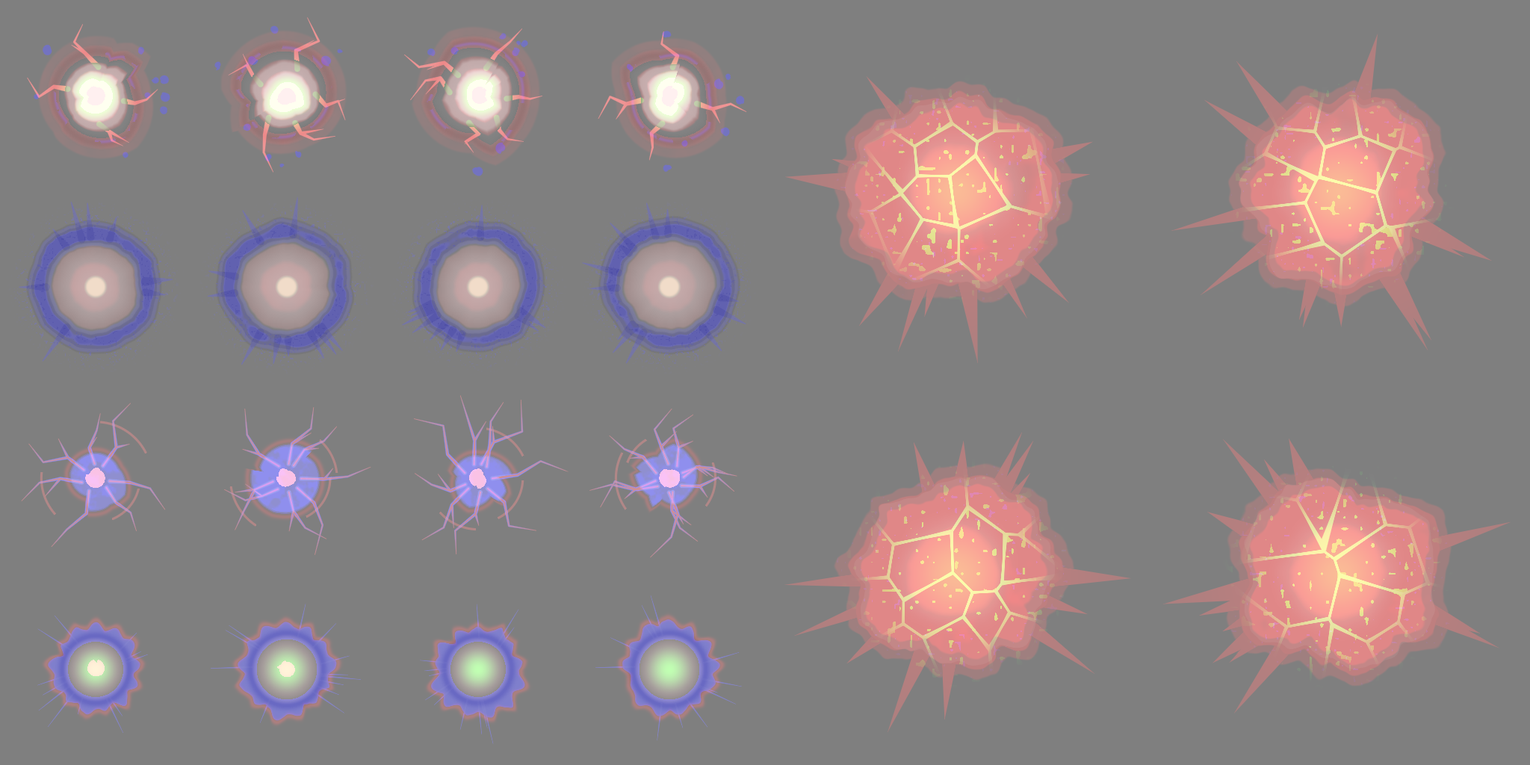
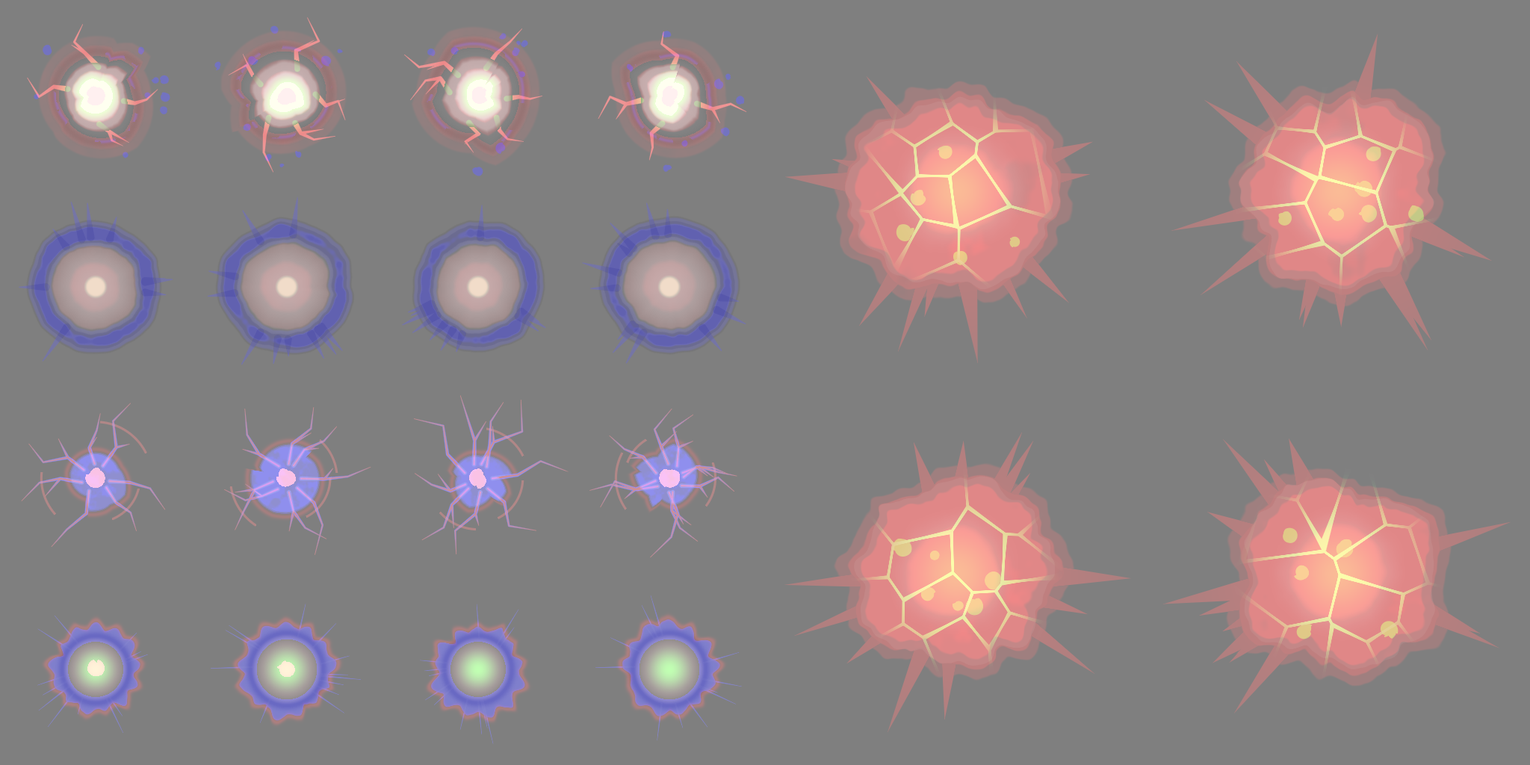
fix(unity): 射击核心特效风格审查 —— 枪口火焰改预乘 + 三段色阶（亮沙 / 雪上不再一团白）、白热芯硬边；焦痕 / 沙坑去噪点颗粒；命中闪光收小、弹着尘按章节暖色；碎刃刀光墨笔起收锋 + 月牙带

diff --git a/unity/Assets/Game/Scripts/Weapons/DemonBlade/BladeTrail.cs b/unity/Assets/Game/Scripts/Weapons/DemonBlade/BladeTrail.cs
@@ -7,7 +7,8 @@ namespace Spiritfire.Game
     /// 碎刃第一人称刀光（WC7；Three.js BladeView.ts 的 SwingTrail，外观参数走 FX1 预设 <see cref="BladeTrailPreset"/>）：
     /// 挂在第一人称视图里（相机空间、FirstPerson 层，由枪模相机画），视图每帧把这一帧走过的挥砍进度细分采样，
     /// 每个采样点记下刀身 35% 处（内沿）与伸长后的刀尖（外沿）的位置和外沿速度——刀光就是刀身扫过的那块面，和刀身严格同步。
-    ///   · 横截面：内沿透明 → 七成处淡淡一层 → 外沿最亮（带身，普通混合：亮背景上也看得见；亮度集中在刃口一侧，像一弯月牙）→ 外缘一道加色光边；
+    ///   · 横截面：刀身扫过的面只画靠刃口的四成——短短一段过渡到带身色（墨笔的边）→ 外沿刃口暖白（两段色阶，普通混合：亮背景上也看得见）→ 外缘一道加色光边；
+    ///   · 墨笔起收锋（风格审查）：一条刀光沿长度方向两头收尖（最老的起笔端收成尖、贴刀的一端略收），读作一弯月牙，不再是四四方方的一片；
     ///   · 亮度跟速度走（<see cref="FxTrailSpec.Brightness"/>）：出刀那两三帧满亮、收势越来越暗；最新的 0.04 s 再白热一点；
     ///   · 采样点活 0.16 s（游戏时间：顿帧时刀光跟着停住），新一段斩击另起一条（<see cref="Break"/>），旧的自然淡掉，不会被拉成一根线连过去。
     /// 网格顶点数固定（<see cref="FxTrailSpec.maxSamples"/> × 5：内沿、七成处、外沿、光边内侧、光边外侧），每帧只重写位置 / 颜色 / 索引。
@@ -26,9 +27,16 @@ namespace Spiritfire.Game
             public bool start;
         }
 
-        const int Stride = 5;
-        /// <summary>带身中间那一圈的位置（内沿 → 外沿的比例）与不透明度（占外沿的比例）</summary>
-        const float MidAt = 0.7f, MidAlpha = 0.42f;
+        const int Stride = 6;
+        /// <summary>
+        /// 带身横截面（风格审查：刀身扫过的那块面只留靠刃口的四成，读作一弯月牙，不是一整张半透明面）：
+        /// 内沿 → InnerAt 处还是透明（这一段不画）→ MidAt 处到带身色（短短一段过渡 = 墨笔的边）→ 外沿刃口（暖白）→ 外缘光边。两段色阶：带身色 / 刃口
+        /// </summary>
+        const float InnerAt = 0.5f, MidAt = 0.64f, MidAlpha = 0.6f;
+        /// <summary>墨笔起收锋：一条刀光最老的那一段（起笔）收成尖（占全长的比例），最新的那一小段（贴着刀）略收一点</summary>
+        const float TailTaper = 0.42f, HeadTaper = 0.12f;
+        /// <summary>刃口混向的暖白（玩家刀光偏金、偏灵火）</summary>
+        static readonly Color WarmWhite = new(1f, 0.9f, 0.66f);
 
         FxTrailSpec spec;
         Sample[] samples;
@@ -77,7 +85,7 @@ namespace Spiritfire.Game
             samples = new Sample[n];
             verts = new Vector3[n * Stride];
             colors = new Color[n * Stride];
-            body = new int[(n - 1) * 12];
+            body = new int[(n - 1) * 18];
             fringe = new int[(n - 1) * 6];
             mesh = new Mesh { name = "Blade Trail", hideFlags = HideFlags.DontSave };
             mesh.MarkDynamic();
@@ -184,36 +192,57 @@ namespace Spiritfire.Game
             return Vector3.Lerp(s.inner, pushed, need);
         }
 
+        /// <summary>墨笔起收锋的宽度系数：u = 这一点在这条刀光里的位置（0 = 最老的起笔端，1 = 贴着刀的最新端）</summary>
+        static float BrushWidth(float u)
+        {
+            float tail = Mathf.Clamp01(u / TailTaper);
+            tail = tail * tail * (3 - 2 * tail);
+            float head = 1 - 0.3f * Mathf.Clamp01((u - (1 - HeadTaper)) / HeadTaper);
+            return Mathf.Sqrt(tail) * head;
+        }
+
         /// <summary>重写网格；没有相连的两点（画不出带子）返回 false</summary>
         bool Rebuild(Color color)
         {
-            var white = Color.white;
             float widenMax = 0, sideSign = 0;
+            int stripStart = 0, stripEnd = 0;
             for (int i = 0; i < count; i++)
             {
                 var s = samples[i];
-                if (s.start) sideSign = 0;
+                if (s.start || i == 0)
+                {
+                    sideSign = 0;
+                    stripStart = i;
+                    stripEnd = i;
+                    while (stripEnd + 1 < count && !samples[stripEnd + 1].start) stripEnd++;
+                }
                 s.inner = WidenedInner(i, ref sideSign, ref widenMax);
+                // 起收锋：内沿往刃口收（刃口不动），两头尖、中间饱满的一弯月牙
+                float u = stripEnd > stripStart ? (i - stripStart) / (float)(stripEnd - stripStart) : 1f;
+                float bw = BrushWidth(u);
+                s.inner = Vector3.LerpUnclamped(s.outer, s.inner, bw);
                 float life = Mathf.Clamp01(1 - s.age / Mathf.Max(0.01f, spec.life));
                 float head = Mathf.Clamp01(1 - s.age / Mathf.Max(0.005f, spec.headTime));
                 float fade = life * life;
-                var hot = Color.Lerp(color, white, Mathf.Clamp01(spec.hotMix + spec.headHotMix * head));
+                var hot = Color.Lerp(color, WarmWhite, Mathf.Clamp01(spec.hotMix + spec.headHotMix * head));
                 float k = spec.bodyIntensity * (0.55f + 0.45f * s.bright);
                 int v = i * Stride;
-                float a = fade * spec.bodyAlpha * s.bright;
-                var mid = Color.Lerp(color, hot, 0.35f);
+                float a = fade * spec.bodyAlpha * s.bright * Mathf.Lerp(0.55f, 1f, bw);
+                var mid = Color.Lerp(color, hot, 0.2f);
                 verts[v] = s.inner;
-                verts[v + 1] = Vector3.LerpUnclamped(s.inner, s.outer, MidAt);
-                verts[v + 2] = s.outer;
+                verts[v + 1] = Vector3.LerpUnclamped(s.inner, s.outer, InnerAt);
+                verts[v + 2] = Vector3.LerpUnclamped(s.inner, s.outer, MidAt);
                 verts[v + 3] = s.outer;
-                verts[v + 4] = s.outer + (s.outer - s.inner) * spec.fringe;
-                colors[v] = new Color(color.r * k, color.g * k, color.b * k, 0);
-                colors[v + 1] = new Color(mid.r * k, mid.g * k, mid.b * k, a * MidAlpha);
-                colors[v + 2] = new Color(hot.r * k, hot.g * k, hot.b * k, a);
+                verts[v + 4] = s.outer;
+                verts[v + 5] = s.outer + (s.outer - s.inner) * spec.fringe;
+                colors[v] = new Color(mid.r * k, mid.g * k, mid.b * k, 0);
+                colors[v + 1] = new Color(mid.r * k, mid.g * k, mid.b * k, 0);
+                colors[v + 2] = new Color(mid.r * k, mid.g * k, mid.b * k, a * MidAlpha);
+                colors[v + 3] = new Color(hot.r * k, hot.g * k, hot.b * k, a);
                 // 外缘光边：加色，刃口那一侧亮（alpha = 强度）、向外收掉
                 float f = spec.fringeIntensity;
-                colors[v + 3] = new Color(hot.r * f, hot.g * f, hot.b * f, fade * s.bright);
-                colors[v + 4] = new Color(hot.r * f, hot.g * f, hot.b * f, 0);
+                colors[v + 4] = new Color(hot.r * f, hot.g * f, hot.b * f, fade * s.bright * bw);
+                colors[v + 5] = new Color(hot.r * f, hot.g * f, hot.b * f, 0);
             }
             LastWiden = widenMax;
             // 没用到的顶点叠到第一个点上：包围盒只算现存的采样
@@ -223,8 +252,8 @@ namespace Spiritfire.Game
             {
                 if (samples[i].start) continue;
                 int a = (i - 1) * Stride, b = i * Stride;
-                // 带身：内沿 → 七成处 → 外沿
-                for (int r = 0; r < 2; r++)
+                // 带身：月牙的内边（InnerAt → MidAt 的过渡）→ 外沿；内沿到 InnerAt 那一段全透明，不画
+                for (int r = 1; r < 3; r++)
                 {
                     body[nb++] = a + r;
                     body[nb++] = a + r + 1;
@@ -234,12 +263,12 @@ namespace Spiritfire.Game
                     body[nb++] = b + r;
                 }
                 // 外缘光边：光边内侧 → 外侧
-                fringe[nf++] = a + 3;
                 fringe[nf++] = a + 4;
-                fringe[nf++] = b + 3;
-                fringe[nf++] = a + 4;
+                fringe[nf++] = a + 5;
                 fringe[nf++] = b + 4;
-                fringe[nf++] = b + 3;
+                fringe[nf++] = a + 5;
+                fringe[nf++] = b + 5;
+                fringe[nf++] = b + 4;
             }
             if (nb == 0) return false;
             mesh.vertices = verts;

diff --git a/scripts/unity/fx_shot_textures.py b/scripts/unity/fx_shot_textures.py
@@ -6,7 +6,7 @@
 全部确定性（固定种子），重跑逐字节相同。按线性空间导入（数据，不是颜色）。
 
 T_Fx_MuzzleSet.png  1024 × 1024，4 × 4 格（每格 256 px，第 0 格在左上角，按行往右数）：
-    RGB = 亮度（白热芯 1 → 边缘 0.55，乘调用方颜色），A = 形状（硬边 + 1–2 px 抗锯齿：卡通、干脆）
+    RGB = 亮度 × 覆盖（预乘；火焰类格的亮度硬化成三段：亮芯 1 / 主色 0.76 / 暗边 0.52，乘调用方颜色），A = 形状（硬边 + 1–2 px 抗锯齿：卡通、干脆）
     正面（格心 = 枪口，朝枪管方向看）：
         0 十字星芒（步枪：四道长芒 + 四道短芒）      1 霰弹喷口（一圈火舌簇 + 弹丸火星点）
         2 粗火团（左轮 / 榴弹：鼓起的火云团）          3 冲击环（狙击 / 灵炮：带缺口的细环）
@@ -209,9 +209,9 @@ def muzzle_cell(i):
             a = np.maximum(a, ring * (1.1 - R * 0.5))
         a = np.maximum(a, np.exp(-(r / 0.22) ** 2) * 0.8)
         lum = np.clip(a, 0, 1) * 0.85 + 0.15 * core
-    elif i == 5:  # 白热芯
-        a = np.clip(aa(0.3 - r, px) * 0.85 + np.exp(-(r / 0.45) ** 2) * 0.6, 0, 1) * aa(0.98 - r, px)
-        lum = np.clip(0.6 + 0.4 * (1 - r / 0.5), 0.6, 1)
+    elif i == 5:  # 白热芯：硬边扇贝圆（风格审查：高光要小、要硬，不要一团柔光）
+        a = aa(0.42 + 0.035 * np.sin(th * 7) - r, px)
+        lum = np.where(r < 0.27, 1.0, 0.8)
     elif i == 6:  # 六角星芒（冲锋枪）
         c1, l1 = spikes(x, y, 6, 0.78, 0.16, rot=np.pi / 2)
         disc = aa(0.22 - r, px)
@@ -236,13 +236,12 @@ def muzzle_cell(i):
             w = w * (1 + 0.32 * np.exp(-((t - 0.36) / 0.06) ** 2) + 0.25 * np.exp(-((t - 0.64) / 0.06) ** 2))
             w = w - 0.1 * np.exp(-((t - 0.5) / 0.05) ** 2) * (1 - t)
             a = aa(w - ay, px) * (t < 0.99)
-            inner = aa(w * 0.45 - ay, px)
-            lum = a * (0.62 + 0.38 * inner) * (1 - 0.3 * t)
+            # 三段色阶跟着火舌的形状走（芯 / 主色 / 暗边各是一条更窄的火舌），不按长度渐暗（那样会在半中间切出一道竖线）
+            lum = a * (0.52 + 0.24 * aa(w * 0.55 - ay, px) + 0.24 * aa(w * 0.24 - ay, px))
         elif i == 9:  # 粗短火舌
             w = 0.78 * np.sin(np.pi * np.clip(t / 0.82, 0, 1)) ** 0.55 * (1 - t) ** 0.25 + 0.04 * np.sin(t * 40) * (1 - t)
             a = aa(w - ay, px) * (t < 0.82)
-            inner = aa(w * 0.5 - ay, px)
-            lum = a * (0.6 + 0.4 * inner) * (1 - 0.25 * t)
+            lum = a * (0.52 + 0.24 * aa(w * 0.6 - ay, px) + 0.24 * aa(w * 0.28 - ay, px))
         elif i == 10:  # 扇形喷口
             g = rng(1010)
             ang = np.arctan2(y, np.maximum(t, 1e-4) * 2)
@@ -255,8 +254,10 @@ def muzzle_cell(i):
             cell = ((ang + 0.62) / 1.24 * n) % 1
             tip = L * (0.65 + 0.35 * np.sin(np.pi * cell))
             a = aa((tip - t) * 2, px) * (np.abs(ang) < 0.62) * aa(0.62 - np.abs(ang), 0.03)
-            a = np.maximum(a, aa(0.26 * np.sqrt(np.clip(t * 6, 0, 1)) - ay, px) * (t < 0.3))
-            lum = a * (0.95 - 0.45 * t)
+            root = aa(0.26 * np.sqrt(np.clip(t * 6, 0, 1)) - ay, px) * (t < 0.3)
+            a = np.maximum(a, root)
+            # 三段：根部的白热团 / 每道火舌的前七成 / 舌尖（按各自的长度，不按统一的横坐标切）
+            lum = a * (0.52 + 0.24 * (t < tip * 0.7) + 0.24 * aa(0.16 - np.sqrt(((t - 0.05) * 0.8) ** 2 + ay ** 2), px))
             for j in range(10):
                 cx = g.uniform(0.0, 0.9)
                 cy = g.uniform(-0.5, 0.5) * (cx + 0.1)
@@ -268,8 +269,7 @@ def muzzle_cell(i):
             w = 0.42 * np.clip(1 - t / 0.78, 0, 1) ** 0.8 * np.sqrt(np.clip(t * 8, 0, 1))
             w = w * (1 + 0.28 * np.exp(-((t - 0.4) / 0.07) ** 2))
             a = aa(w - ay, px) * (t < 0.78)
-            inner = aa(w * 0.45 - ay, px)
-            lum = a * (0.62 + 0.38 * inner) * (1 - 0.3 * t)
+            lum = a * (0.52 + 0.24 * aa(w * 0.55 - ay, px) + 0.24 * aa(w * 0.24 - ay, px))
         else:  # 能量流
             band = np.exp(-(ay / (0.12 + 0.05 * t)) ** 2) * (1 - t) ** 0.6
             a = band
@@ -284,15 +284,31 @@ def muzzle_cell(i):
     return lum, a
 
 
+# 能量类的格（波纹、符环、能量流）保留柔和的亮度；火焰类的格亮度硬化成三段
+SOFT_CELLS = (4, 7, 12)
+
+
+def band3(lum):
+    """火焰亮度硬化成三段色阶（docs/art/fx-style.md：2–3 个色阶、阶与阶之间是硬一点的软阶梯）：
+    暗边 0.52（乘出来是赭色的边）/ 主色 0.76 / 亮芯 1.0"""
+    w = 0.025
+    lo = sstep(0.66 - w, 0.66 + w, lum)
+    hi = sstep(0.86 - w, 0.86 + w, lum)
+    return 0.52 + 0.24 * lo + 0.24 * hi
+
+
 def muzzle_atlas():
+    """RGB = 亮度 × 覆盖（预乘：着色器按 One / OneMinusSrcAlpha 混合，外面一圈是 0 不发光），A = 覆盖"""
     img = np.zeros((4 * MN, 4 * MN, 4), dtype=np.float64)
     for i in range(16):
         if i >= 14:
             continue
         lum, a = muzzle_cell(i)
+        if i not in SOFT_CELLS:
+            lum = band3(lum)
         col, row = i % 4, i // 4
         sl = img[row * MN:(row + 1) * MN, col * MN:(col + 1) * MN]
-        sl[..., 0] = sl[..., 1] = sl[..., 2] = np.where(a > 0, lum, 0)
+        sl[..., 0] = sl[..., 1] = sl[..., 2] = np.where(a > 0, lum, 0) * a
         sl[..., 3] = a
     return img
 
@@ -404,8 +420,9 @@ def hole_sand(v):
         rc0 = 0.52 + 0.03 * (v % 2)
         d, t = seg_dist(x, y, np.cos(ang) * rc0, np.sin(ang) * rc0, np.cos(ang) * L, np.sin(ang) * L)
         rays = np.maximum(rays, aa(0.035 * (1 - t) + 0.005 - d, 2.0 / HN))
-    grains = (vnoise(x * 60, y * 60, s + 4) > 0.82) * sstep(0.95, 0.6, r) * (r > rc)
-    h += 0.04 * rays + 0.03 * grains
+    # 风格审查：不撒细碎的沙粒噪点，溅沙只靠几道放射沙痕
+    grains = np.zeros_like(x)
+    h += 0.04 * rays
     dark = np.maximum(poster(bowl, 2, 0.12) * 0.32 * (0.8 + 0.4 * n), pit * 0.75)
     light = np.maximum.reduce([poster(np.clip(rim, 0, 1), 2, 0.15) * 0.5, rays * 0.35, grains * 0.4])
     heat = pit * 0.35
@@ -514,12 +531,17 @@ def scorch(v):
         d1 = np.minimum(d1, d)
     edge = aa(0.014 - (d2 - d1), 2.0 / n2) * sstep(0.55, 0.3, r)
     h = 0.5 - 0.06 * charcoal - 0.08 * edge - 0.03 * body
-    # 余热：缝里最热（中心）往外熄，外加零星火星点
-    embers = (vnoise(x * 34, y * 34, s + 3) > 0.86) * sstep(0.62, 0.25, r)
-    heat = np.maximum(edge * (0.45 + 0.55 * sstep(0.55, 0.0, r)), embers * 0.75)
+    # 余热：缝里最热（中心）往外熄，外加几块中尺度的余烬（风格审查：不要细碎的噪点火星 / 灰点）
+    embers = np.zeros_like(x)
+    for k in range(5 + v % 3):
+        ang = g.uniform(0, 2 * np.pi)
+        rr = g.uniform(0.12, 0.42)
+        ex, ey = np.cos(ang) * rr, np.sin(ang) * rr
+        pr = polygon_radius(np.arctan2(y - ey, x - ex), 6, g.uniform(0.028, 0.045), 0.3, s + 30 + k)
+        embers = np.maximum(embers, aa(pr - np.sqrt((x - ex) ** 2 + (y - ey) ** 2), 2.0 / n2))
+    heat = np.maximum(edge * (0.45 + 0.55 * sstep(0.55, 0.0, r)), embers * 0.55)
     heat = np.maximum(heat, charcoal * 0.35 * sstep(0.3, 0.0, r))
-    ash = (vnoise(x * 50, y * 50, s + 4) > 0.9) * soot * (r > 0.3) * 0.35
-    light = ash
+    light = np.zeros_like(x)
     cover = np.maximum.reduce([dark, heat, light, np.abs(h - 0.5) * 6])
     return finish(dark, heat, light, h, cover)
 

diff --git a/unity/Assets/Game/Scripts/Fx/MuzzleFlashes.cs b/unity/Assets/Game/Scripts/Fx/MuzzleFlashes.cs
@@ -24,7 +24,11 @@ namespace Spiritfire.Game
         const int PoolSize = 6, MaxParts = 5;
         /// <summary>WeaponController 的常数枪口（相机局部坐标，腰射 → 开镜）：ShotFx 用它认出哪次 MuzzleFlash 调用是开枪</summary>
         static readonly Vector3 MuzzleHip = new(0.2f, -0.13f, 0.75f), MuzzleAim = new(0, -0.08f, 0.7f);
-        static readonly Color DefaultColor = new(1f, 0.75f, 0.4f);
+        /// <summary>没有元素的枪：橙色主色（形状集的三段乘出来是 白热芯 / 橙 / 赭边，见 fx_shot_textures.py band3）</summary>
+        static readonly Color DefaultColor = new(1f, 0.64f, 0.28f);
+        static readonly Color WarmWhite = new(1f, 0.95f, 0.82f);
+        /// <summary>预乘混合时火焰片的不透明度：盖住身后八成（亮地面上色阶看得出），留两成透出背景（不是一张贴纸）</summary>
+        const float PremulOpacity = 0.8f;
         static readonly Color RailTint = new(0.79f, 0.66f, 1f);
         static readonly Color BowTint = new(0.86f, 0.92f, 1f);
         static readonly int BaseColorId = Shader.PropertyToID("_BaseColor");
@@ -469,7 +473,9 @@ namespace Spiritfire.Game
                 var part = v.look.parts[i];
                 float k = Mathf.Clamp01(k0 / Mathf.Max(0.2f, part.life));
                 float alpha = (part.expand ? Mathf.Pow(1 - k, 1.2f) : 1 - k * k) * part.alpha;
-                var c = part.hot ? Color.Lerp(v.color, Color.white, 0.65f) * 2.2f : v.color * 1.6f;
+                // 风格审查：预乘（形状集）时 HDR 收一档——白热芯是暖白、主色片按形状集的三段色阶出橙 / 赭，不再一片发白
+                bool premul = FxShotAssets.MuzzlePremultiplied;
+                var c = part.hot ? Color.Lerp(v.color, premul ? WarmWhite : Color.white, premul ? 0.7f : 0.65f) * (premul ? 1.7f : 2.2f) : v.color * (premul ? 1.3f : 1.6f);
                 for (int copy = 0; copy < 2; copy++)
                 {
                     bool fpCopy = copy == 0;
@@ -491,7 +497,7 @@ namespace Spiritfire.Game
                         cp.t[i].localRotation = Quaternion.Euler(0, 0, v.roll[i]);
                     }
                     block.Clear();
-                    block.SetColor(BaseColorId, new Color(c.r, c.g, c.b, a));
+                    block.SetColor(BaseColorId, premul ? new Color(c.r * a, c.g * a, c.b * a, a * PremulOpacity) : new Color(c.r, c.g, c.b, a));
                     cp.r[i].SetPropertyBlock(block);
                 }
             }

diff --git a/unity/Assets/Game/Scripts/Fx/FxShotAssets.cs b/unity/Assets/Game/Scripts/Fx/FxShotAssets.cs
@@ -34,7 +34,11 @@ namespace Spiritfire.Game
             }
         }
 
-        /// <summary>第一人称枪口火焰材质（M_Fx_Muzzle 的副本，贴图换成形状集）；形状集缺失时为 null</summary>
+        /// <summary>
+        /// 第一人称枪口火焰材质（M_Fx_Muzzle 的副本，贴图换成形状集）；形状集缺失时为 null。
+        /// 风格审查：混合从纯加法改成预乘（One / OneMinusSrcAlpha；形状集的 RGB 已经乘过覆盖，颜色的 RGB 由 MuzzleFlashes 再乘一次透明度）——
+        /// 纯加法叠在亮沙、雪地上只剩一团白，预乘以后亮芯 / 主色 / 暗边三段色阶在任何地面上都看得出来。
+        /// </summary>
         public static Material Muzzle
         {
             get
@@ -47,9 +51,17 @@ namespace Spiritfire.Game
                 muzzle = new Material(baseMat) { name = "M_Fx_MuzzleSet (runtime)", hideFlags = HideFlags.DontSave };
                 if (muzzle.HasProperty("_BaseMap")) muzzle.SetTexture("_BaseMap", tex);
                 if (muzzle.HasProperty("_MainTex")) muzzle.SetTexture("_MainTex", tex);
+                muzzle.SetFloat("_Blend", 1);
+                muzzle.SetFloat("_SrcBlend", (float)UnityEngine.Rendering.BlendMode.One);
+                muzzle.SetFloat("_DstBlend", (float)UnityEngine.Rendering.BlendMode.OneMinusSrcAlpha);
+                muzzle.SetFloat("_SrcBlendAlpha", (float)UnityEngine.Rendering.BlendMode.One);
+                muzzle.SetFloat("_DstBlendAlpha", (float)UnityEngine.Rendering.BlendMode.OneMinusSrcAlpha);
                 return muzzle;
             }
         }
+
+        /// <summary>枪口火焰用的是预乘的形状集材质（<see cref="Muzzle"/>）：颜色要按预乘写（RGB × 透明度）</summary>
+        public static bool MuzzlePremultiplied => Muzzle;
 
         /// <summary>弹壳材质</summary>
         public static Material Shell

diff --git a/unity/Assets/Game/Scripts/Fx/Presets/BladeTrail.cs b/unity/Assets/Game/Scripts/Fx/Presets/BladeTrail.cs
@@ -3,7 +3,7 @@ using UnityEngine;
 namespace Spiritfire.Game
 {
     /// <summary>
-    /// 碎刃刀光（WC7，<see cref="BladeTrail"/> 按 id 取）：紫色带身 + 白热刃口 + 一道加色光边，寿命 0.16 s（同 Three.js SwingTrail）；挥得快就更亮。
+    /// 碎刃刀光（WC7，<see cref="BladeTrail"/> 按 id 取）：紫色带身 + 暖白刃口（玩家刀光偏金）+ 一道加色光边，两头墨笔起收锋，寿命 0.16 s（同 Three.js SwingTrail）；挥得快就更亮。
     /// 规模 s：普通两段 1、第三段（伸刃）1.6、人刀合一再 ×1.25。
     /// 判定帧在刀尖的屏幕位置往前 1.6 m 处（贴脸淡出之外）顺着挥动方向甩出一小撮碎刃火星：拉丝光点 + 一颗白热闪光。
     /// </summary>
@@ -37,7 +37,7 @@ namespace Spiritfire.Game
                 new FxLayer
                 {
                     style = "Glow", count = FxScale.Const(1), density = false, shape = FxShape.Point,
-                    size = new Vector2(0.22f, 0.22f), sizeScale = FxScale.Pow(0.5f), life = new Vector2(0.06f, 0.08f), color = FxColor.Hot, mix = 0.5f,
+                    size = new Vector2(0.16f, 0.16f), sizeScale = FxScale.Pow(0.5f), life = new Vector2(0.05f, 0.06f), color = FxColor.Hot, mix = 0.4f,
                 },
             };
         }

diff --git a/unity/Assets/Game/Scripts/Fx/Presets/Impact.cs b/unity/Assets/Game/Scripts/Fx/Presets/Impact.cs
@@ -48,14 +48,15 @@ namespace Spiritfire.Game
                 {
                     style = "Dust", count = new FxScale(0, 2, 1, 0, 4), shape = FxShape.Cone, coneAngle = 45, offset = 0.03f,
                     speed = new Vector2(0.6f, 1.8f), up = 0.2f, size = new Vector2(0.18f, 0.3f), sizeScale = FxScale.Lin(0, 1),
-                    life = new Vector2(0.45f, 0.8f), color = FxColor.Fixed, fixedColor = Hex.Rgb(0x8c8274), mix = 0.1f,
+                    // 尘、碎屑写沙寺的暖色（风格审查：沙寺的尘是暖沙色，不用灰），按章节换调子
+                    life = new Vector2(0.45f, 0.8f), color = FxColor.Ground, fixedColor = Hex.Rgb(0xb4967a), mix = 0.1f,
                 },
                 // 小碎屑
                 new FxLayer
                 {
                     style = "Chunk", count = FxScale.Lin(0, 2), shape = FxShape.Hemisphere, normalBias = 1.2f, offset = 0.03f,
                     speed = new Vector2(2.5f, 6), up = 1, size = new Vector2(0.035f, 0.07f), sizeScale = FxScale.Lin(0, 1),
-                    life = new Vector2(0.5f, 0.9f), color = FxColor.Fixed, fixedColor = Hex.Rgb(0x3b322b), mix = 0,
+                    life = new Vector2(0.5f, 0.9f), color = FxColor.Ground, fixedColor = Hex.Rgb(0x6e4c34), mix = 0,
                 },
             };
         }

diff --git a/unity/Assets/Game/Scripts/Fx/Presets/EnemyHit.cs b/unity/Assets/Game/Scripts/Fx/Presets/EnemyHit.cs
@@ -23,7 +23,7 @@ namespace Spiritfire.Game
                 new FxLayer
                 {
                     style = "Glow", count = FxScale.Const(1), density = false, shape = FxShape.Point,
-                    size = new Vector2(0.48f, 0.48f), sizeScale = FxScale.Lin(0, 1), life = new Vector2(0.08f, 0.1f), color = FxColor.Hot, mix = 0.55f,
+                    size = new Vector2(0.3f, 0.3f), sizeScale = FxScale.Lin(0, 1), life = new Vector2(0.07f, 0.08f), color = FxColor.Hot, mix = 0.35f,
                 },
                 // 能量溅射
                 new FxLayer

diff --git a/unity/Assets/Game/Scripts/Fx/Presets/EnemyHitShield.cs b/unity/Assets/Game/Scripts/Fx/Presets/EnemyHitShield.cs
@@ -21,7 +21,7 @@ namespace Spiritfire.Game
                 new FxLayer
                 {
                     style = "Glow", count = FxScale.Const(1), density = false, shape = FxShape.Point,
-                    size = new Vector2(0.42f, 0.42f), sizeScale = FxScale.Lin(0, 1), life = new Vector2(0.08f, 0.08f), color = FxColor.Hot, mix = 0.5f,
+                    size = new Vector2(0.28f, 0.28f), sizeScale = FxScale.Lin(0, 1), life = new Vector2(0.07f, 0.07f), color = FxColor.Hot, mix = 0.35f,
                 },
                 new FxLayer
                 {

diff --git a/unity/Assets/Game/Scripts/Fx/Presets/EnemyHitArmor.cs b/unity/Assets/Game/Scripts/Fx/Presets/EnemyHitArmor.cs
@@ -21,7 +21,7 @@ namespace Spiritfire.Game
                 new FxLayer
                 {
                     style = "Glow", count = FxScale.Const(1), density = false, shape = FxShape.Point,
-                    size = new Vector2(0.38f, 0.38f), sizeScale = FxScale.Lin(0, 1), life = new Vector2(0.07f, 0.07f), color = FxColor.Hot, mix = 0.6f,
+                    size = new Vector2(0.26f, 0.26f), sizeScale = FxScale.Lin(0, 1), life = new Vector2(0.06f, 0.06f), color = FxColor.Hot, mix = 0.4f,
                 },
                 new FxLayer
                 {
